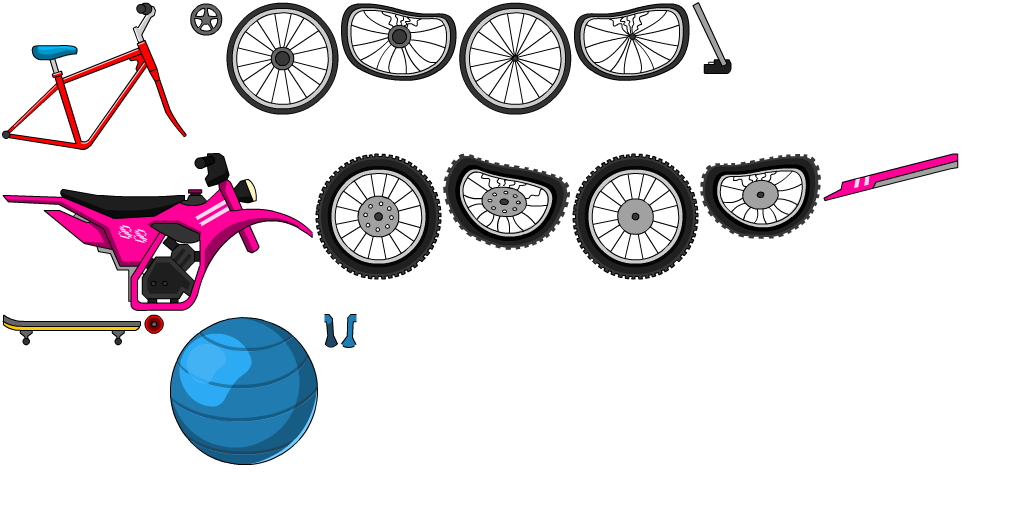
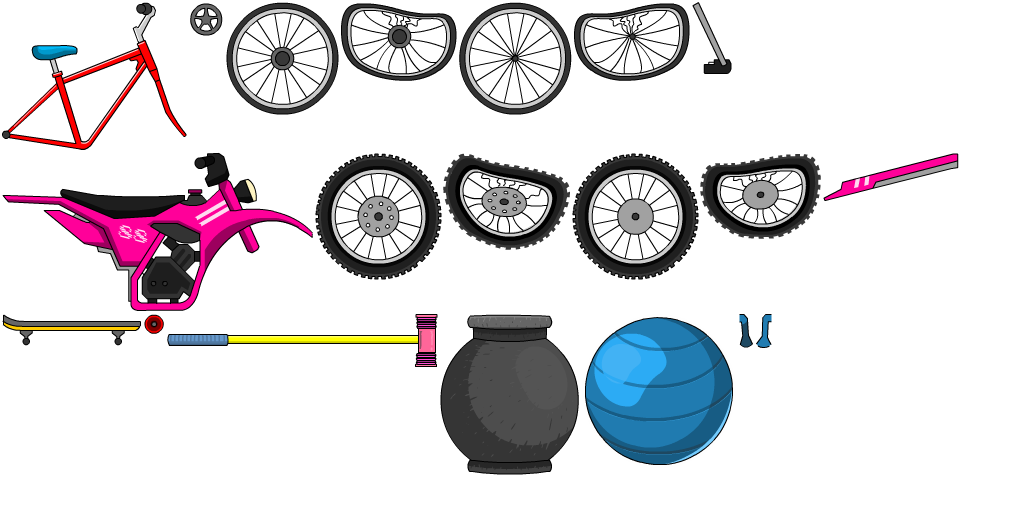
WIP Hammer Pot

Changed region(s): [[0.1562, 0.5938, 0.75, 0.9375]]

diff --git a/src/prefabs/vehicles/HammerPot.js b/src/prefabs/vehicles/HammerPot.js
@@ -1,0 +1,65 @@
+import * as PrefabManager from '../PrefabManager';
+import * as AudioManager from '../../utils/AudioManager';
+import {Humanoid} from '../humanoids/Humanoid';
+
+import { BaseVehicle } from './BaseVehicle';
+import { game } from '../../Game';
+import { b2SubVec2 } from '../../../libs/debugdraw';
+
+
+const vec1 = new Box2D.b2Vec2(0, 0);
+const vec2 = new Box2D.b2Vec2(0, 0);
+
+class HammerPot extends BaseVehicle {
+    constructor(target) {
+        super(target);
+        this.destroyConnectedJoints = {
+            head:['neck_joint', 'pot_left_joint', 'pot_right_joint', 'hammer_left_joint', 'hammer_right_joint'],
+            body:['neck_joint', 'pot_left_joint', 'pot_right_joint', 'hammer_left_joint', 'hammer_right_joint'],
+            thigh_left:[],
+            thigh_right:[],
+            leg_left:[],
+            leg_right:[],
+            feet_left:[],
+            feet_right:[],
+            shoulder_left:['hammer_left_joint'],
+            shoulder_right:['hammer_right_joint'],
+            arm_left:['hammer_left_joint'],
+            arm_right:['hammer_right_joint'],
+            hand_left:['hammer_left_joint'],
+            hand_right:['hammer_right_joint'],
+            belly:['pot_left_joint', 'pot_right_joint']
+        }
+        this.vehicleName = 'HammerPot';
+        this.limbsObserver = [
+                                [[Humanoid.BODY_PARTS.FEET_LEFT, Humanoid.BODY_PARTS.LEG_LEFT, Humanoid.BODY_PARTS.THIGH_LEFT],
+                                 [Humanoid.BODY_PARTS.FEET_RIGHT, Humanoid.BODY_PARTS.LEG_RIGHT, Humanoid.BODY_PARTS.THIGH_RIGHT]
+                                ]
+                            ]
+    }
+    init() {
+        super.init();
+    }
+    update() {
+        super.update();
+    }
+
+    destroy(){
+        super.destroy();
+    }
+
+    initContactListener() {
+        super.initContactListener();
+        const self = this;
+        this.contactListener.PreSolve = function (contact) {
+		}
+        this.contactListener.PostSolve = function (contact, impulse) {
+        }
+    }
+}
+
+PrefabManager.prefabLibrary.HammerPot = {
+    json: '{"objects":[[0,-0.3789,2.2875,-0.7501,".character#Character , .flesh","thigh_left",0,["#999999"],["#000"],[0],false,true,[[{"x":-0.202,"y":-1.031},{"x":0.196,"y":-1.044},{"x":0.17,"y":1.038},{"x":-0.164,"y":1.038}]],[1],[7],[null],"",[1],true,false,false,[0.5],[0.2],false,true,false,false,1],[1,-11.3869,69.0362,-0.7501,"","",1,"Normal_Thigh0000",0,0.413,-2.367,0,true,"#FFFFFF",1,1,1,0,0,0,true],[0,-0.4805,3.4155,1.0121,".character#Character , .flesh","leg_left",2,["#999999"],["#000"],[0],false,true,[[{"x":-0.161,"y":-0.912},{"x":0.161,"y":-0.925},{"x":0.084,"y":0.912},{"x":-0.084,"y":0.925}]],[1],[7],[null],"",[1],true,false,false,[0.5],[0.2],false,true,false,false,1],[0,-1.4339,4.1774,1.2391,".character#Character , .flesh","feet_left",3,["#999999"],["#000"],[0],false,true,[[{"x":-0.353,"y":-0.233},{"x":0.359,"y":0},{"x":0.359,"y":0.123},{"x":-0.365,"y":0.111}]],[1],[7],[null],"",[1],true,false,false,[0.5],[0.2],false,true,false,false,1],[1,-14.5213,102.2948,1.0121,"","",4,"Normal_Leg0000",2,0.199,-3.142,0,true,"#FFFFFF",1,1,1,0,0,0,true],[1,-41.5034,125.3587,1.2391,"","",5,"Normal_Feet0000",3,1.515,1.214,0,true,"#FFFFFF",1,1,1,0,0,0,true],[0,-0.0451,-1.3372,-1.4139,".character#Character , .flesh","shoulder_left",6,["#999999"],["#000"],[0],false,true,[[{"x":-0.185,"y":-0.859},{"x":0.193,"y":-0.842},{"x":0.111,"y":0.851},{"x":-0.119,"y":0.851}]],[1],[7],[null],"",[1],true,false,false,[0.5],[0.2],false,true,false,false,1],[0,1.3825,-1.477,-1.99,".character#Character , .flesh","arm_left",7,["#999999"],["#000"],[0],false,true,[[{"x":-0.136,"y":-0.686},{"x":0.144,"y":-0.703},{"x":0.127,"y":0.694},{"x":-0.136,"y":0.694}]],[1],[7],[null],"",[1],true,false,false,[0.5],[0.2],false,true,false,false,1],[1,-1.1748,-40.6617,-1.4139,"","",8,"Normal_Shoulder0000",6,0.573,-0.161,0,true,"#FFFFFF",1,1,1,0,0,0,true],[1,41.6104,-44.5764,-1.99,"","",9,"Normal_Arm0000",7,0.298,-0.894,0,true,"#FFFFFF",1,1,1,0,0,0,true],[0,2.2226,-1.7674,-2.0424,".character#Character , .flesh","hand_left",10,["#999999"],["#000"],[0],false,true,[[{"x":0,"y":0},{"x":0,"y":0}]],[1],[7],[7.513],"",[1],true,false,false,[0.5],[0.2],false,true,false,false,1],[1,67.1045,-51.2769,-2.0424,"","",11,"Normal_Hand0000",10,1.798,2.91,0,true,"#FFFFFF",1,1,1,0,0,0,true],[0,-1.0784,1.2962,-0.262,".character#Character , .flesh","belly",12,["#999999"],["#000"],[0],false,true,[[{"x":0,"y":0},{"x":0,"y":0}]],[1],[7],[14.181],"",[1],true,false,false,[0.5],[0.2],false,true,false,false,1],[0,-0.9101,-3.0465,-0.262,".character#Character , .flesh","head",13,["#999999"],["#000"],[0],false,true,[[{"x":0,"y":0},{"x":0,"y":0}]],[1],[7],[30.393],"",[1],true,false,false,[0.5],[0.2],false,true,false,false,1],[0,-0.9707,-0.4925,0.087,".character#Character , .flesh","body",14,["#999999"],["#000"],[0],false,true,[[{"x":-0.537,"y":1.202},{"x":-0.432,"y":-1.37},{"x":-0.15,"y":-1.828},{"x":0.132,"y":-1.793},{"x":0.555,"y":-1.123},{"x":0.555,"y":1.308},{"x":0.097,"y":1.801},{"x":-0.22,"y":1.801}]],[1],[7],[null],"",[1],true,false,false,[0.5],[0.2],false,true,false,false,1],[1,-31.0389,30.2369,-0.062,"","",15,"Normal_Belly0000",12,8.747,1.158,-0.2,false,"#FFFFFF",1,1,1,0,0,0,true],[1,-27.9946,-18.7901,0.087,"","",16,"Normal_Core0000",14,4.169,1.384,0,true,"#FFFFFF",1,1,1,0,0,0,true],[1,-25.8084,-93.9855,-0.262,"","",17,"Normal_Head_Idle0000",13,2.99,0.785,0,true,"#FFFFFF",1,1,1,0,0,0,true],[0,-0.2126,2.1057,-0.8727,".character#Character , .flesh","thigh_right",18,["#999999"],["#000"],[0],false,true,[[{"x":-0.202,"y":-1.031},{"x":0.196,"y":-1.044},{"x":0.17,"y":1.038},{"x":-0.164,"y":1.038}]],[1],[7],[null],"",[1],true,false,false,[0.5],[0.2],false,true,false,false,1],[0,-0.1987,3.2357,0.8556,".character#Character , .flesh","leg_right",19,["#999999"],["#000"],[0],false,true,[[{"x":-0.161,"y":-0.912},{"x":0.161,"y":-0.925},{"x":0.084,"y":0.912},{"x":-0.084,"y":0.925}]],[1],[7],[null],"",[1],true,false,false,[0.5],[0.2],false,true,false,false,1],[0,-0.7091,-3.2105,-0.262,".character#Character","eye_left",20,["#999999"],["#000"],[0],false,true,[[{"x":0,"y":0},{"x":0,"y":0}]],[1],[7],[7.534],"",[1],true,false,false,[0.5],[0.2],false,true,false,false,1],[1,-6.3473,63.5814,-0.8727,"","",21,"Normal_Thigh0000",18,0.413,-2.367,0,true,"#FFFFFF",1,1,1,0,0,0,true],[1,-6.0923,96.9193,0.8556,"","",22,"Normal_Leg0000",19,0.199,-3.142,0,true,"#FFFFFF",1,1,1,0,0,0,true],[1,-21.2488,-96.8768,-0.262,"","",23,"Normal_Eye0000",20,0.561,1.264,0,null,"#FFFFFF",1,1,1,0,0,0,true],[0,-0.9437,4.1359,0.9246,".character#Character , .flesh","feet_right",24,["#999999"],["#000"],[0],false,true,[[{"x":-0.353,"y":-0.233},{"x":0.359,"y":0},{"x":0.359,"y":0.123},{"x":-0.365,"y":0.111}]],[1],[7],[null],"",[1],true,false,false,[0.5],[0.2],false,true,false,false,1],[1,-26.8599,123.6433,0.9246,"","",25,"Normal_Feet0000",24,1.515,1.214,0,true,"#FFFFFF",1,1,1,0,0,0,true],[0,-0.495,-1.0049,-0.8898,".character#Character , .flesh","shoulder_right",26,["#999999"],["#000"],[0],false,true,[[{"x":-0.185,"y":-0.859},{"x":0.193,"y":-0.842},{"x":0.111,"y":0.851},{"x":-0.119,"y":0.851}]],[1],[7],[null],"",[1],true,false,false,[0.5],[0.2],false,true,false,false,1],[0,0.7735,-0.6446,-1.8156,".character#Character , .flesh","arm_right",27,["#999999"],["#000"],[0],false,true,[[{"x":-0.136,"y":-0.686},{"x":0.144,"y":-0.703},{"x":0.127,"y":0.694},{"x":-0.136,"y":0.694}]],[1],[7],[null],"",[1],true,false,false,[0.5],[0.2],false,true,false,false,1],[0,-0.0221,-3.4215,-0.262,".character#Character","eye_right",28,["#999999"],["#000"],[0],false,true,[[{"x":0,"y":0},{"x":0,"y":0}]],[1],[7],[7.534],"",[1],true,false,false,[0.5],[0.2],false,true,false,false,1],[1,-0.6388,-103.2068,-0.262,"","",29,"Normal_Eye0000",28,0.561,1.264,0,null,"#FFFFFF",1,1,1,0,0,0,true],[0,4.85,-6.1522,-1.0472,".vehicle","hammer",30,["#999999","#999999"],["#000","#000"],[0,0],false,true,[[{"x":-6.5264,"y":0.1806},{"x":-6.5264,"y":-0.1708},{"x":2.3772,"y":-0.1708},{"x":2.3772,"y":0.1806}],[{"x":1.7179,"y":0.8686},{"x":1.7179,"y":-0.8784},{"x":2.4313,"y":-0.8784},{"x":2.4313,"y":0.8686}]],[1,1],[7,7],[0,0],"",[0,0],true,false,false,[0.5,0.5],[0.2,0.2],false,true,false,false,1],[1,115.4197,-130.4761,-1.0472,"","",31,"Hammer0000",30,61.8921,-3.1255,0,false,"#FFFFFF",1,1,1,0,0,0,true],[1,-14.4234,-30.53,-0.8898,"","",32,"Normal_Shoulder0000",26,0.573,-0.161,0,true,"#FFFFFF",1,1,1,0,0,0,true],[1,23.3843,-19.5767,-1.8156,"","",33,"Normal_Arm0000",27,0.298,-0.894,0,true,"#FFFFFF",1,1,1,0,0,0,true],[0,1.6797,-0.8904,-2.3383,".character#Character , .flesh","hand_right",34,["#999999"],["#000"],[0],false,true,[[{"x":0,"y":0},{"x":0,"y":0}]],[1],[7],[7.513],"",[1],true,false,false,[0.5],[0.2],false,true,false,false,1],[1,51.3082,-25.1674,-2.3383,"","",35,"Normal_Hand0000",34,1.798,2.91,0,true,"#FFFFFF",1,1,1,0,0,0,true],[0,-1.0618,3.0138,0,".vehicle","pot",36,["#999999","#999999"],["#000","#000"],[0,0],false,true,[[{"x":0.0083,"y":0.1014},{"x":0.0083,"y":0.1014}],[{"x":1.3151,"y":-2.674},{"x":1.3151,"y":2.4713},{"x":-1.3316,"y":2.4713},{"x":-1.3316,"y":-2.674}]],[1,1],[7,7],[70.9441,0],"",[0,0],true,false,false,[0.5,0.5],[0.2,0.2],false,true,false,false,1],[1,-31.3265,87.9359,0,"","",37,"Pot0000",36,2.5325,1.3606,0,false,"#FFFFFF",1,1,1,0,0,0,true],[2,9.3702,87.5537,0.5411,".character#Character","leg_left_joint",38,2,0,0,false,false,1,10,true,0,-149,0,0,0,0,false],[2,-39.1359,115.61,0.5411,".character#Character","feet_left_joint",39,3,2,0,false,false,1,10,true,0,0,0,0,0,0,false],[2,22.1154,-36.8274,-0.7856,".character#Character","arm_left_joint",40,7,6,0,false,false,1,10,true,152,0,0,0,0,0,false],[2,58.3473,-52.7478,0.8374,".character#Character","hand_left_joint",41,10,7,0,false,false,1,10,true,60,-60,0,0,0,0,false],[2,-25.4072,46.2214,-0.262,".character#Character","thigh_left_joint",42,0,12,0,false,false,1,10,true,142,-16,0,0,0,0,false],[2,-22.3522,-45.1156,-0.262,".character#Character","shoulder_left_joint",43,6,14,0,false,false,1,10,true,180,-19,0,0,0,0,false],[2,-23.3902,-63.5686,-0.262,".character#Character","head_joint",44,13,14,0,false,false,1,10,true,58,-64,0,0,0,0,false],[2,16.1056,79.833,0.6456,".character#Character","leg_right_joint",45,19,18,0,false,false,1,10,true,0,-149,0,0,0,0,false],[2,-27.3511,115.3267,0.4716,".character#Character","feet_right_joint",46,24,19,0,false,false,1,10,true,0,0,0,0,0,0,false],[2,-2.5692,-100.2106,-0.262,".character#Character","eye_right_joint",47,28,13,0,false,false,1,10,true,0,0,0,0,0,0,false],[2,4.0089,-14.3978,-1.3441,".character#Character","arm_right_joint",48,27,26,0,false,false,1,10,true,152,0,0,0,0,0,false],[2,42.7261,-23.926,0.4539,".character#Character","hand_right_joint",49,34,27,0,false,false,1,10,true,60,-60,0,0,0,0,false],[2,-29.8709,-43.167,-1.1172,".character#Character","shoulder_right_joint",50,26,14,0,false,false,1,10,true,180,-19,0,0,0,0,false],[2,-22.8152,-95.8126,-0.262,".character#Character","eye_left_joint",51,20,13,0,false,false,1,10,true,0,0,0,0,0,0,false],[2,-32.7242,33.0084,-0.262,".character#Character","belly_joint",52,14,12,0,false,false,1,10,true,10,-10,0,0,0,0,false],[2,-31.9642,47.5264,-0.262,".character#Character","thigh_right_joint",53,18,12,0,false,false,1,10,true,142,-16,0,0,0,0,false],[2,-52.645,18.4318,0,".vehicle","pot_left_joint",54,36,14,2,false,false,1,10,false,0,0,0,4,0,0,true],[2,-6.6258,19.7829,0,".vehicle","pot_right_joint",55,36,14,2,false,false,1,10,false,0,0,0.5,4,0,0,true],[2,-54.5728,-56.9489,0,".vehicle","neck_joint",56,14,13,2,false,false,1,10,false,0,0,0.5,3,0,0,true],[2,68.8096,-53.3244,0,".vehicle","hammer_left_joint",57,10,30,0,false,false,1,10,false,0,0,0,0,0,0,true],[2,52.4641,-27.7943,0,".vehicle","hammer_right_joint",58,34,30,0,false,false,1,10,false,0,0,0,0,0,0,true]]}',
+    class: HammerPot,
+    library: PrefabManager.LIBRARY_ADMIN,
+}

diff --git a/src/b2Editor/B2dEditor.js b/src/b2Editor/B2dEditor.js
@@ -82,7 +82,7 @@ const _B2dEditor = function () {
 
 	this.container = null;
 	this.selectedTool = -1;
-	this.breakPrefabs = false;
+	this.breakPrefabs = true;
 
 	this.selectedPhysicsBodies = [];
 	this.selectedTextures = [];
